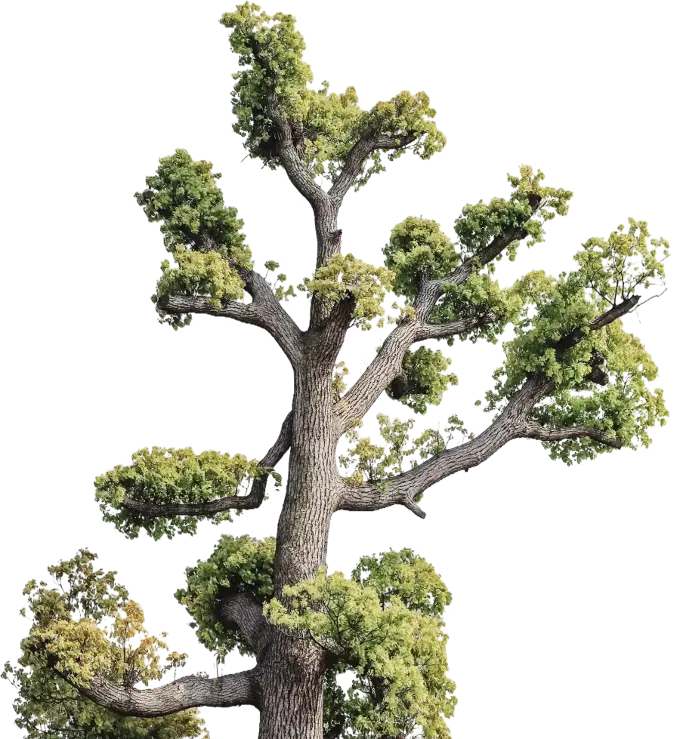
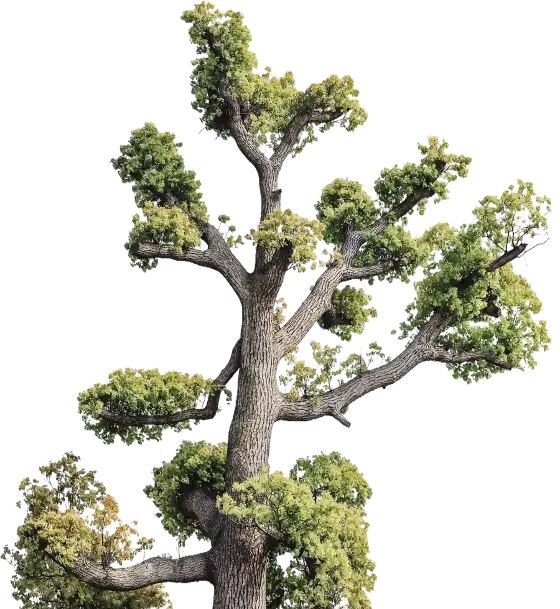
Review fixes for #82: LLM direction/certainty check, computed claims, lighter heroes
2. LLM replies are checked against hard rule 1: every direction or certainty
   word in a clause must belong to a fact named in that clause (fails closed:
   a clause that states a result without naming a fact is rejected). The
   fact sheet now gives each item's real certainty levels; the prompt asks
   for the exact names. Tests for flipped direction, changed certainty and
   unnamed claims.
3. "Most-studied are all mixed" is computed from summary['densest'] in both
   the fact sheet and the home template, and left out when it isn't true.
4. Hero pictures re-encoded from the Figma originals: Q1 154->106 KB,
   Q2 64->41 KB, Q3 106->86 KB. Home paper band loads lazily.
6. problem.js: drop the unused start offset. render_site copies only
   hero-q<N>[-clouds].<ext> and warns about any over 150 KB.

diff --git a/static/problem.js b/static/problem.js
@@ -14,7 +14,6 @@
   var words = [sec.querySelector('.pb-spread'), sec.querySelector('.pb-many')];
   var STEP = 22;        // px of scrolling per flower: 14 flowers in about 300px
   var SLICE = 12;       // px of scrolling per paper slice: the band in about 300px
-  var start = scrollY;  // flowers count from where the page was when it opened
   // top of the bunch first, as if drifting down (each flower's centre y is in its clip-path)
   flowers.sort(function (a, b) {
     return parseFloat(a.style.clipPath.split(' ').pop()) - parseFloat(b.style.clipPath.split(' ').pop());
@@ -29,7 +28,7 @@
   // px a part has risen past 90% of the screen height (0 until it is on screen)
   function risen(el) { return Math.max(0, innerHeight * 0.9 - el.getBoundingClientRect().top); }
   function frame() {
-    var d = Math.max(0, scrollY - Math.min(start, 0)), shown = 0;
+    var d = Math.max(0, scrollY), shown = 0;
     // flowers follow your scrolling, but only once the bunch is on screen (phones)
     var df = Math.min(d, risen(box));
     flowers.forEach(function (f, i) { var y = df >= 10 + STEP * i; on(f, y); if (y) shown++; });

diff --git a/build/llm.py b/build/llm.py
@@ -27,44 +27,122 @@ NEGATIVE = ('ineffective', 'does not work', "doesn't work", 'no effect on', 'har
 MAX_CHARS = 420
 SYSTEM = ('You write for restoration practitioners who are not scientists. Using ONLY the facts given, write '
           'exactly two short plain-English sentences summarising what the evidence says for this question. '
-          'Do not add numbers, years, durations or claims that are not in the facts. Keep each certainty word '
-          'next to the finding it belongs to. "Not studied" means nobody tested it, never that it does not work. '
+          'Refer to each item by the exact name given before its colon. Keep each item\'s direction and '
+          'certainty exactly as given, in the same clause as its name. Do not add numbers, years, durations or '
+          'claims that are not in the facts. "Not studied" means nobody tested it, never that it does not work. '
           'Reply with the two sentences only.')
 
+# Words that state a direction, and which pack directions each one is consistent with. A clause
+# of the reply that uses one must name a fact whose direction it fits (see check_claims).
+DIR_WORDS = [
+    (r'\bno (?:clear )?(?:effect|change|difference)\b', {'no_effect', 'comparable'}),
+    (r'\b(?:increas\w*|rais\w*|improv\w*|boost\w*|helps?|helped|helping|benefit\w*)\b', {'increase', 'above_reference'}),
+    (r'\b(?:decreas\w*|reduc\w*|lowers?|lowered|lowering|hurts?|harms?|harmed|hold\w* (?:\w+ )?back|worsen\w*)\b',
+     {'decrease', 'below_reference'}),
+    (r'\b(?:behind|lag\w*|below|trail\w*|fall short)\b', {'below_reference', 'decrease'}),
+    (r'\b(?:ahead|above|exceed\w*|outperform\w*)\b', {'above_reference', 'increase'}),
+    (r'\b(?:level with|comparable|similar|match\w*|catch\w* up)\b', {'comparable', 'no_effect'}),
+    (r'\b(?:mixed|disagree\w*|inconsistent|conflicting)\b', {'mixed'}),
+    (r'\b(?:unclear|uncertain direction)\b', {'unclear'}),
+]
+CERT_RE = re.compile(r'\b(very low|high|moderate|low)(?:-| )certainty\b|\bcertainty (?:is |of )?(very low|high|moderate|low)\b')
 
-def facts(data: SiteData, q: Question) -> Tuple[str, List[str]]:
-    """A compact fact sheet for one question, and the numbers the model may repeat."""
+
+class Fact:
+    """One line of the fact sheet: the names that point to it, its directions and certainties."""
+    def __init__(self, line: str, names: List[str], dirs=(), certs=()):
+        self.line, self.names = line, [n.lower() for n in names if n]
+        self.dirs, self.certs = set(dirs), set(certs)
+
+
+def _names(label: str) -> List[str]:
+    """How a reply may name an item: its label without brackets, and its first two words."""
+    base = re.sub(r'\s*\(.*?\)', '', label).strip().lower()
+    words = [w for w in re.split(r'[\s,&/]+', base) if w]
+    head = ' '.join(words[:1] if len(words) > 1 and words[1] in ('or', 'and', 'of', 'at', 'in', 'to') else words[:2])
+    return [base, head] if head and head != base else [base]
+
+
+def facts(data: SiteData, q: Question) -> Tuple[str, List[str], List[Fact]]:
+    """A compact fact sheet for one question, the numbers the model may repeat, and the facts
+    each clause of its reply is checked against."""
     kind = data.kinds.get(q.qid)
     lines = ['Question: ' + q.text]
     nums: List[str] = []
+    fl: List[Fact] = []
     if kind == GAPMAP and 'summary' in q.extra:
         s = q.extra['summary']
         lines.append('%s of %s intervention-outcome combinations have been studied; %s of those by a single study.'
                      % (s['filled'], s['cells'], s['thin']))
         lines.append('%d combinations have not been studied (nobody tested them).' % len(q.gaps))
-        lines.append('The ten most-studied combinations all have mixed results.')
-        nums += [str(s['filled']), str(s['cells']), str(s['thin']), str(len(q.gaps)), 'ten', '10']
+        nums += [str(s['filled']), str(s['cells']), str(s['thin']), str(len(q.gaps))]
+        by_id = {f.id: f for f in q.findings}
+        dense = [by_id[i] for i in (s.get('densest') or []) if i in by_id]
+        if dense:
+            n_mixed = sum(f.direction == 'mixed' for f in dense)
+            line = ('Most-studied combinations: all %d have mixed results.' % len(dense) if n_mixed == len(dense)
+                    else 'Most-studied combinations: %d of the %d have mixed results.' % (n_mixed, len(dense)))
+            lines.append(line)
+            nums += [str(len(dense)), str(n_mixed)]
+            fl.append(Fact(line, ['most-studied', 'most studied', 'best-studied', 'best studied'],
+                           {f.direction for f in dense}, {f.certainty for f in dense}))
     else:
         sa = q.extra.get('short_answer') or {}
         if 'time_to_reference' in sa:
-            lines.append('How long until created marshes match natural ones: the studies cannot say.')
+            line = 'How long until created marshes match natural ones: the studies cannot say.'
+            lines.append(line)
+            fl.append(Fact(line, ['how long', 'cannot say', "can't say", 'catch up'], {'comparable'}))
         firm = [f for f in q.all_findings() if f.certainty in ('high', 'moderate')]
         for f in firm:
-            lines.append('- %s: %s (%s certainty, %d %s)' % (
-                f.label.split(': ', 1)[-1] if f.reference or f.kind == 'trend' else f.subject_label + ' on ' + f.outcome_label,
-                DIR.get(f.direction, f.direction), CERT[f.certainty], f.studies, 'study' if f.studies == 1 else 'studies'))
+            name = f.outcome_label if f.reference or f.kind == 'trend' else f.subject_label
+            line = '- %s: %s (%s certainty, %d %s%s)' % (
+                name, DIR.get(f.direction, f.direction), CERT[f.certainty], f.studies,
+                'study' if f.studies == 1 else 'studies', '' if (f.reference or f.kind == 'trend') else ', on ' + f.outcome_label)
+            lines.append(line)
             nums.append(str(f.studies))
-        rest = len(q.all_findings()) - len(firm)
+            fl.append(Fact(line, _names(name), {f.direction}, {f.certainty}))
+        rest = [f for f in q.all_findings() if f not in firm]
         if rest:
-            lines.append('%d other findings have low or very low certainty.' % rest)
-            nums.append(str(rest))
+            levels = [CERT[c] for c in ('high', 'moderate', 'low', 'very_low') if any(f.certainty == c for f in rest)]
+            line = '%d other findings have %s certainty.' % (len(rest), ' or '.join(levels))
+            lines.append(line)
+            nums.append(str(len(rest)))
+            fl.append(Fact(line, ['other', 'less certain', 'remaining', 'rest'],
+                           {f.direction for f in rest}, {f.certainty for f in rest}))
         if q.gaps:
             lines.append('%d pairing(s) not studied.' % len(q.gaps))
             nums.append(str(len(q.gaps)))
-    return '\n'.join(lines), nums
+    return '\n'.join(lines), nums, fl
 
 
-def validate(text: str, allowed: List[str]) -> Optional[str]:
+def check_claims(text: str, fl: List[Fact]) -> Optional[str]:
+    """Hard rule 1: every direction or certainty the reply states must belong to a fact named in the
+    same clause. Fails closed: a clause that states one without naming a fact is rejected."""
+    for clause in re.split(r'[.;:]\s+|[.;]$|, (?:and|but|while|whereas) ', text.lower()):
+        clause = clause.strip()
+        if not clause:
+            continue
+        dirs = set()
+        for rx, ok in DIR_WORDS:
+            if re.search(rx, clause):
+                dirs.add(frozenset(ok))
+        certs = {(m.group(1) or m.group(2)).replace(' ', '_') for m in CERT_RE.finditer(clause)}
+        if not dirs and not certs:
+            continue
+        hit = [f for f in fl if any(n in clause for n in f.names)]
+        if not hit:
+            return 'states a result without naming a fact: %r' % clause[:60]
+        allowed_d = set().union(*(f.dirs for f in hit))
+        allowed_c = set().union(*(f.certs for f in hit))
+        for ok in dirs:
+            if not ok & allowed_d:
+                return 'direction not in the facts: %r' % clause[:60]
+        if certs - allowed_c:
+            return 'certainty not in the facts: %r' % clause[:60]
+    return None
+
+
+def validate(text: str, allowed: List[str], fl: Optional[List[Fact]] = None) -> Optional[str]:
     """Why the model's text cannot be used, or None if it is fine."""
     t = text.strip()
     if not t:
@@ -82,6 +160,8 @@ def validate(text: str, allowed: List[str]) -> Optional[str]:
             return 'number %s not in the facts' % n
     if '<' in t or '>' in t:
         return 'markup'
+    if fl is not None:
+        return check_claims(t, fl)
     return None
 
 
@@ -117,13 +197,13 @@ def home_summaries(data: SiteData, templates: Dict[str, str], use_llm: bool = Tr
         out[qid] = (templates[qid], 'template')
         if not on:
             continue
-        sheet, nums = facts(data, q)
+        sheet, nums, fl = facts(data, q)
         try:
             text = ask(sheet)
         except Exception as exc:  # network, auth, timeout, bad JSON: keep the template
             print('[build] llm %s: request failed (%s); template used' % (qid, type(exc).__name__))
             continue
-        why = validate(text, nums)
+        why = validate(text, nums, fl)
         if why:
             print('[build] llm %s: rejected (%s); template used' % (qid, why))
             continue

diff --git a/build/render.py b/build/render.py
@@ -827,7 +827,7 @@ def problem_section() -> str:
     flowers = ''.join('<img src="static/home-flowers.webp" alt="" decoding="async" '
                       'style="clip-path:circle({}% at {}% {}%)">'.format(r, x, y) for x, y, r in HOME_FLOWERS)
     n = HOME_PAPER_STRIPS
-    strips = ''.join('<img src="static/home-papers.webp" alt="" decoding="async" '
+    strips = ''.join('<img src="static/home-papers.webp" alt="" decoding="async" loading="lazy" '
                      'style="clip-path:inset(0 {:.3f}% 0 {:.3f}%)">'.format(100 - (i + 1) * 100 / n, i * 100 / n)
                      for i in range(n))
     # hide the parts before the first paint (no flash), unless the reader asks for reduced motion
@@ -1866,7 +1866,14 @@ def render_method(data: SiteData) -> str:
 
 def render_site(data: SiteData, prose: Prose, out: str) -> List[str]:
     os.makedirs(os.path.join(out, 'static'), exist_ok=True)
-    heroes = [f for f in os.listdir(os.path.join(ROOT, 'static')) if f.startswith('hero-')]
+    # only the hero pictures and cloud drawings this page template uses (hero-q<N>[-clouds].<ext>);
+    # a big one is reported so page weight doesn't grow unnoticed
+    heroes = [f for f in os.listdir(os.path.join(ROOT, 'static'))
+              if re.fullmatch(r'hero-q\d+(?:-clouds)?\.(?:webp|avif|jpg|png|svg)', f)]
+    for f in heroes:
+        kb = os.path.getsize(os.path.join(ROOT, 'static', f)) // 1024
+        if kb > 150:
+            print('[build] warning: static/%s is %d KB; it is loaded on its question page' % (f, kb))
     for f in ['style.css', 'favicon.svg', 'graph.js', 'tree.js', 'ns.js', 'problem.js', 'ov.js', 'pin.webp', 'ov-wave.svg', 'home-flowers.webp',
               'home-papers.webp', 'logo.svg'] + heroes:
         shutil.copyfile(os.path.join(ROOT, 'static', f), os.path.join(out, 'static', f))

diff --git a/tests/test_llm.py b/tests/test_llm.py
@@ -7,6 +7,33 @@ sys.path.insert(0, os.path.join(os.path.dirname(__file__), '..', 'build'))
 import llm  # noqa: E402
 
 
+class ClaimTests(unittest.TestCase):
+    """Hard rule 1: a reply may not flip a direction or certainty from the pack."""
+    @classmethod
+    def setUpClass(cls):
+        import load
+        cls.data = load.load_all(os.path.join(os.path.dirname(__file__), '..', 'answers'))
+
+    def check(self, qid, text):
+        _, nums, fl = llm.facts(self.data, self.data.questions[qid])
+        return llm.validate(text, nums, fl)
+
+    def test_faithful_reply_passes(self):
+        self.assertIsNone(self.check('q1', 'With high certainty, seedling size & stock type and vegetation control '
+                                     '& release help growth; competing vegetation lowers survival.'))
+        self.assertIsNone(self.check('q3', 'All 10 of the most-studied combinations have mixed results.'))
+
+    def test_flipped_direction_rejected(self):
+        self.assertIn('direction', self.check('q1', 'With high certainty, competing vegetation increases survival.'))
+        self.assertIn('direction', self.check('q3', 'The most-studied combinations increase plant cover.'))
+
+    def test_raised_or_lowered_certainty_rejected(self):
+        self.assertIn('certainty', self.check('q1', 'Seedling size helps, with low certainty.'))
+
+    def test_unnamed_claim_rejected(self):
+        self.assertIn('without naming', self.check('q2', 'Created marshes match natural ones on growth.'))
+
+
 class ValidateTests(unittest.TestCase):
     def test_accepts_numbers_from_the_facts(self):
         self.assertIsNone(llm.validate('Only 123 of 384 combinations were studied.', ['123', '384']))

diff --git a/build/summarize.py b/build/summarize.py
@@ -206,8 +206,17 @@ def home_template(qid: str, data: SiteData) -> str:
     kind = data.kinds[qid]
     if kind == GAPMAP and 'summary' in q.extra:
         s = q.extra['summary']
-        return ('Only %s of %s treatment and outcome combinations have been studied, and %s of those rest on a '
-                'single study. Even the best-studied combinations give mixed results.' % (s['filled'], s['cells'], s['thin']))
+        lead = ('Only %s of %s treatment and outcome combinations have been studied, and %s of those rest on a '
+                'single study.' % (s['filled'], s['cells'], s['thin']))
+        by_id = {f.id: f for f in q.findings}
+        dense = [by_id[i] for i in (s.get('densest') or []) if i in by_id]
+        n_mixed = sum(f.direction == 'mixed' for f in dense)
+        if dense and n_mixed == len(dense):   # said only when the pack's densest cells really are all mixed
+            lead += ' Even the best-studied combinations give mixed results.'
+        elif n_mixed:
+            lead += ' %s of the %s best-studied combinations give mixed results.' % (
+                _cap(NUMBER_WORD.get(n_mixed, str(n_mixed))), NUMBER_WORD.get(len(dense), str(len(dense))))
+        return lead
     sa = q.extra.get('short_answer') or {}
     if 'time_to_reference' in sa and sa.get('time_to_reference') is None:
         firm = [f.outcome_label.lower() for f in q.findings
